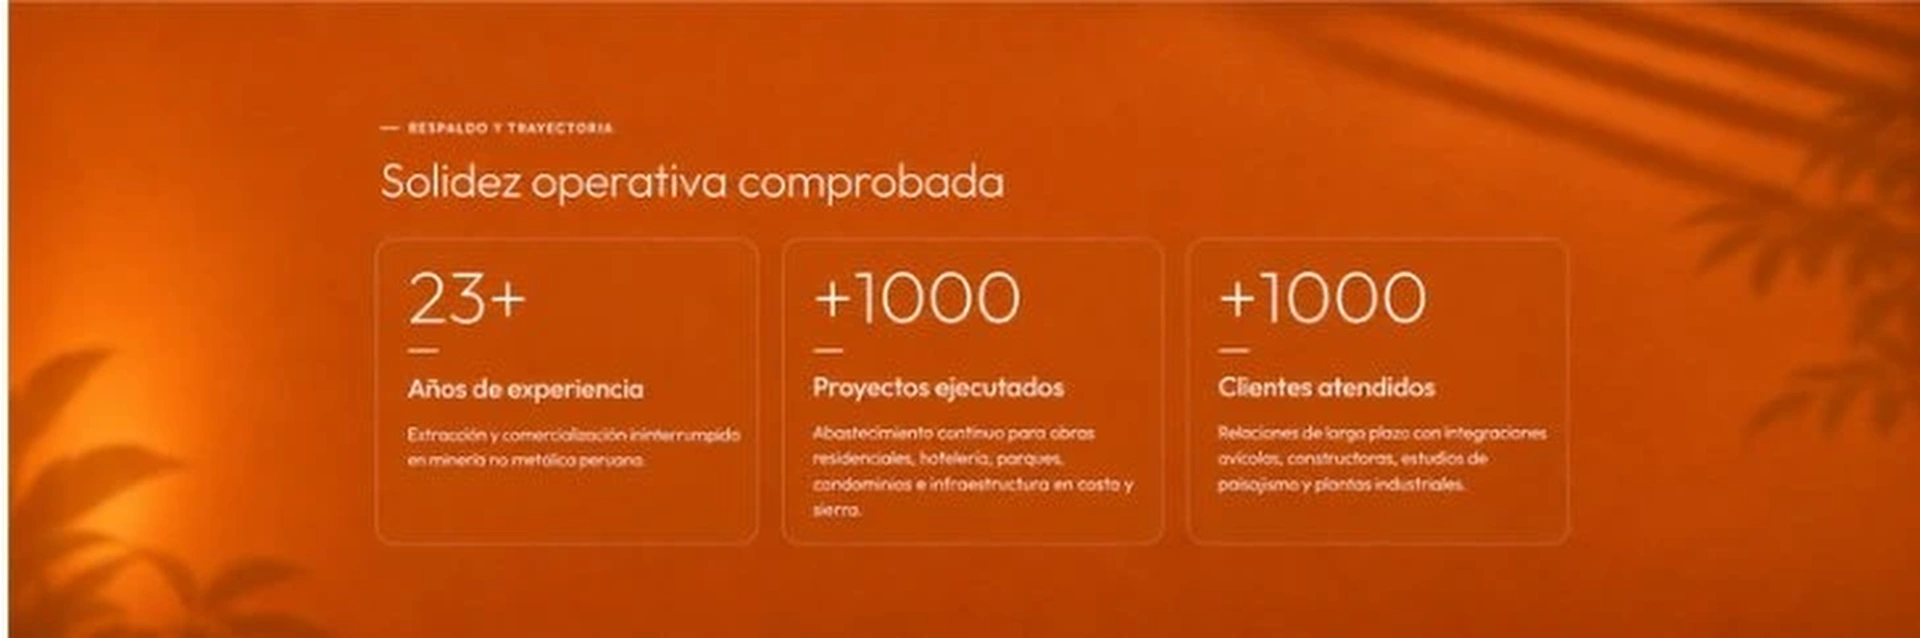
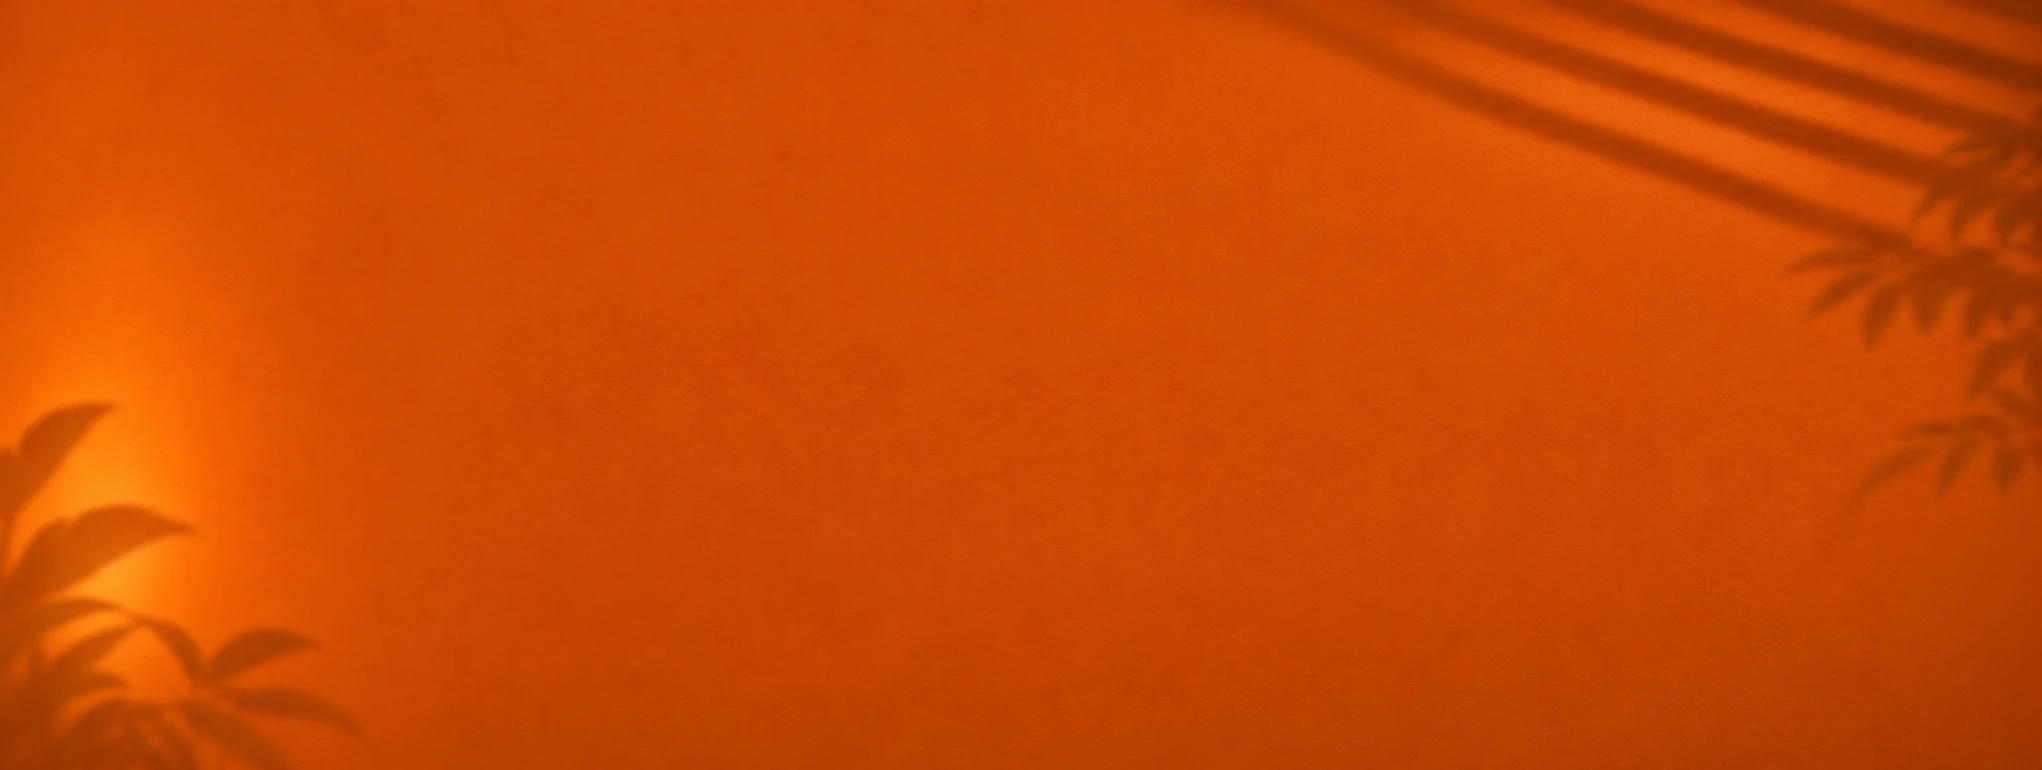
Actualizar fondo de seccion cifras a bannernaranja.png de alta resolucion y limpio

diff --git a/css/styles.css b/css/styles.css
@@ -748,9 +748,9 @@ textarea {
 #cifras {
   position: relative;
   background-color: #C3530F;
-  background-image: linear-gradient(135deg, rgba(200, 80, 10, 0.55) 0%, rgba(140, 45, 8, 0.75) 100%), url('../assets/img/fondo-cifras-palmera.webp');
+  background-image: url('../assets/img/bannernaranja.png');
   background-size: cover;
-  background-position: center right;
+  background-position: center center;
   background-repeat: no-repeat;
   color: #FFFFFF;
   border-bottom: 1px solid rgba(255, 255, 255, 0.15);
@@ -758,11 +758,7 @@ textarea {
 }
 
 #cifras::before {
-  content: "";
-  position: absolute;
-  inset: 0;
-  background: radial-gradient(circle at 18% 45%, rgba(255, 125, 40, 0.3) 0%, transparent 60%);
-  pointer-events: none;
+  display: none;
 }
 
 #cifras .container {
